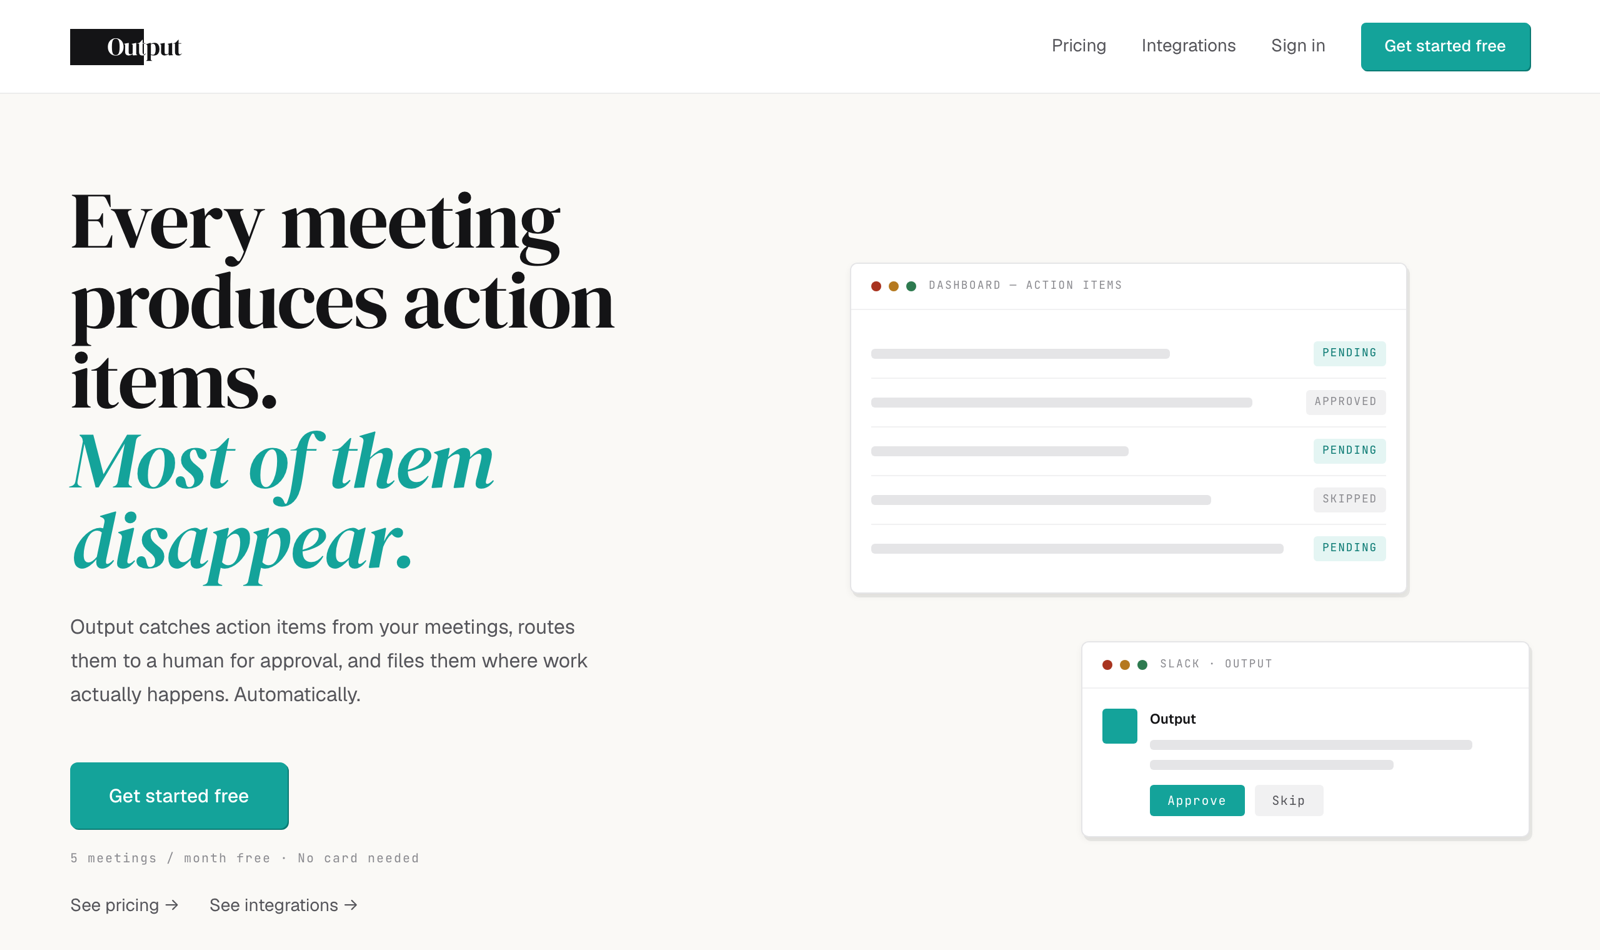
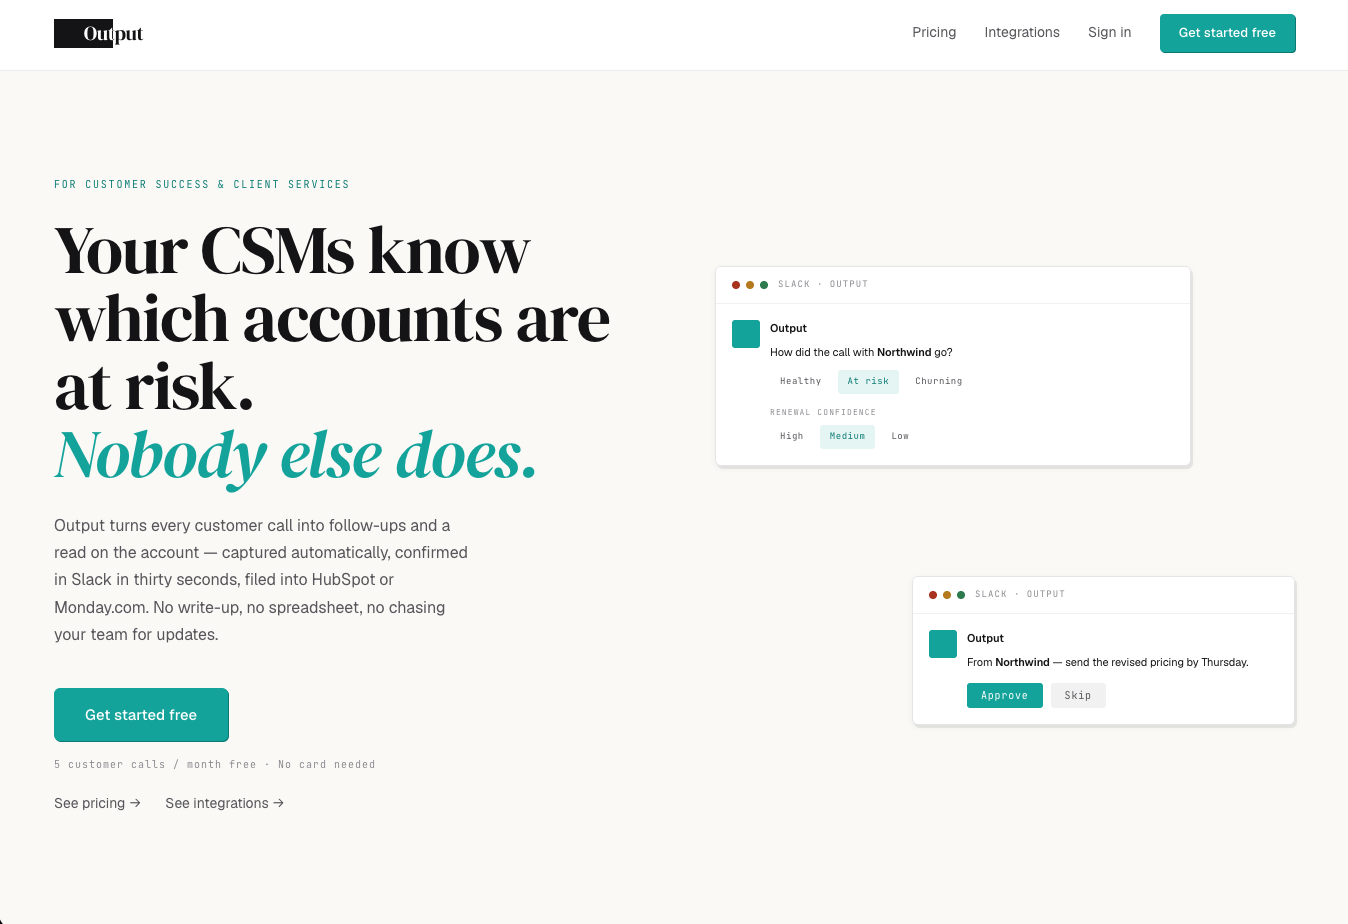
Update Output product screenshot to current marketing site
Replaces the old dashboard shot with the CSM-focused hero showing the
account-risk Slack card and approve/skip flow; updates the img width/
height attrs to match the new image's aspect ratio.

diff --git a/index.html b/index.html
@@ -526,7 +526,7 @@ body{padding-bottom:var(--rail)}
         </dl>
       </div>
       <figure class="shot bleed-r">
-        <div class="plate"><img src="assets/output.png" alt="The Output marketing site, showing the action-item dashboard and the Slack approve or skip flow." loading="lazy" width="1280" height="760"></div>
+        <div class="plate"><img src="assets/output.png" alt="The Output marketing site, showing the action-item dashboard and the Slack approve or skip flow." loading="lazy" width="1348" height="924"></div>
         <figcaption>getoutput.app, captured live</figcaption>
       </figure>
     </div>
